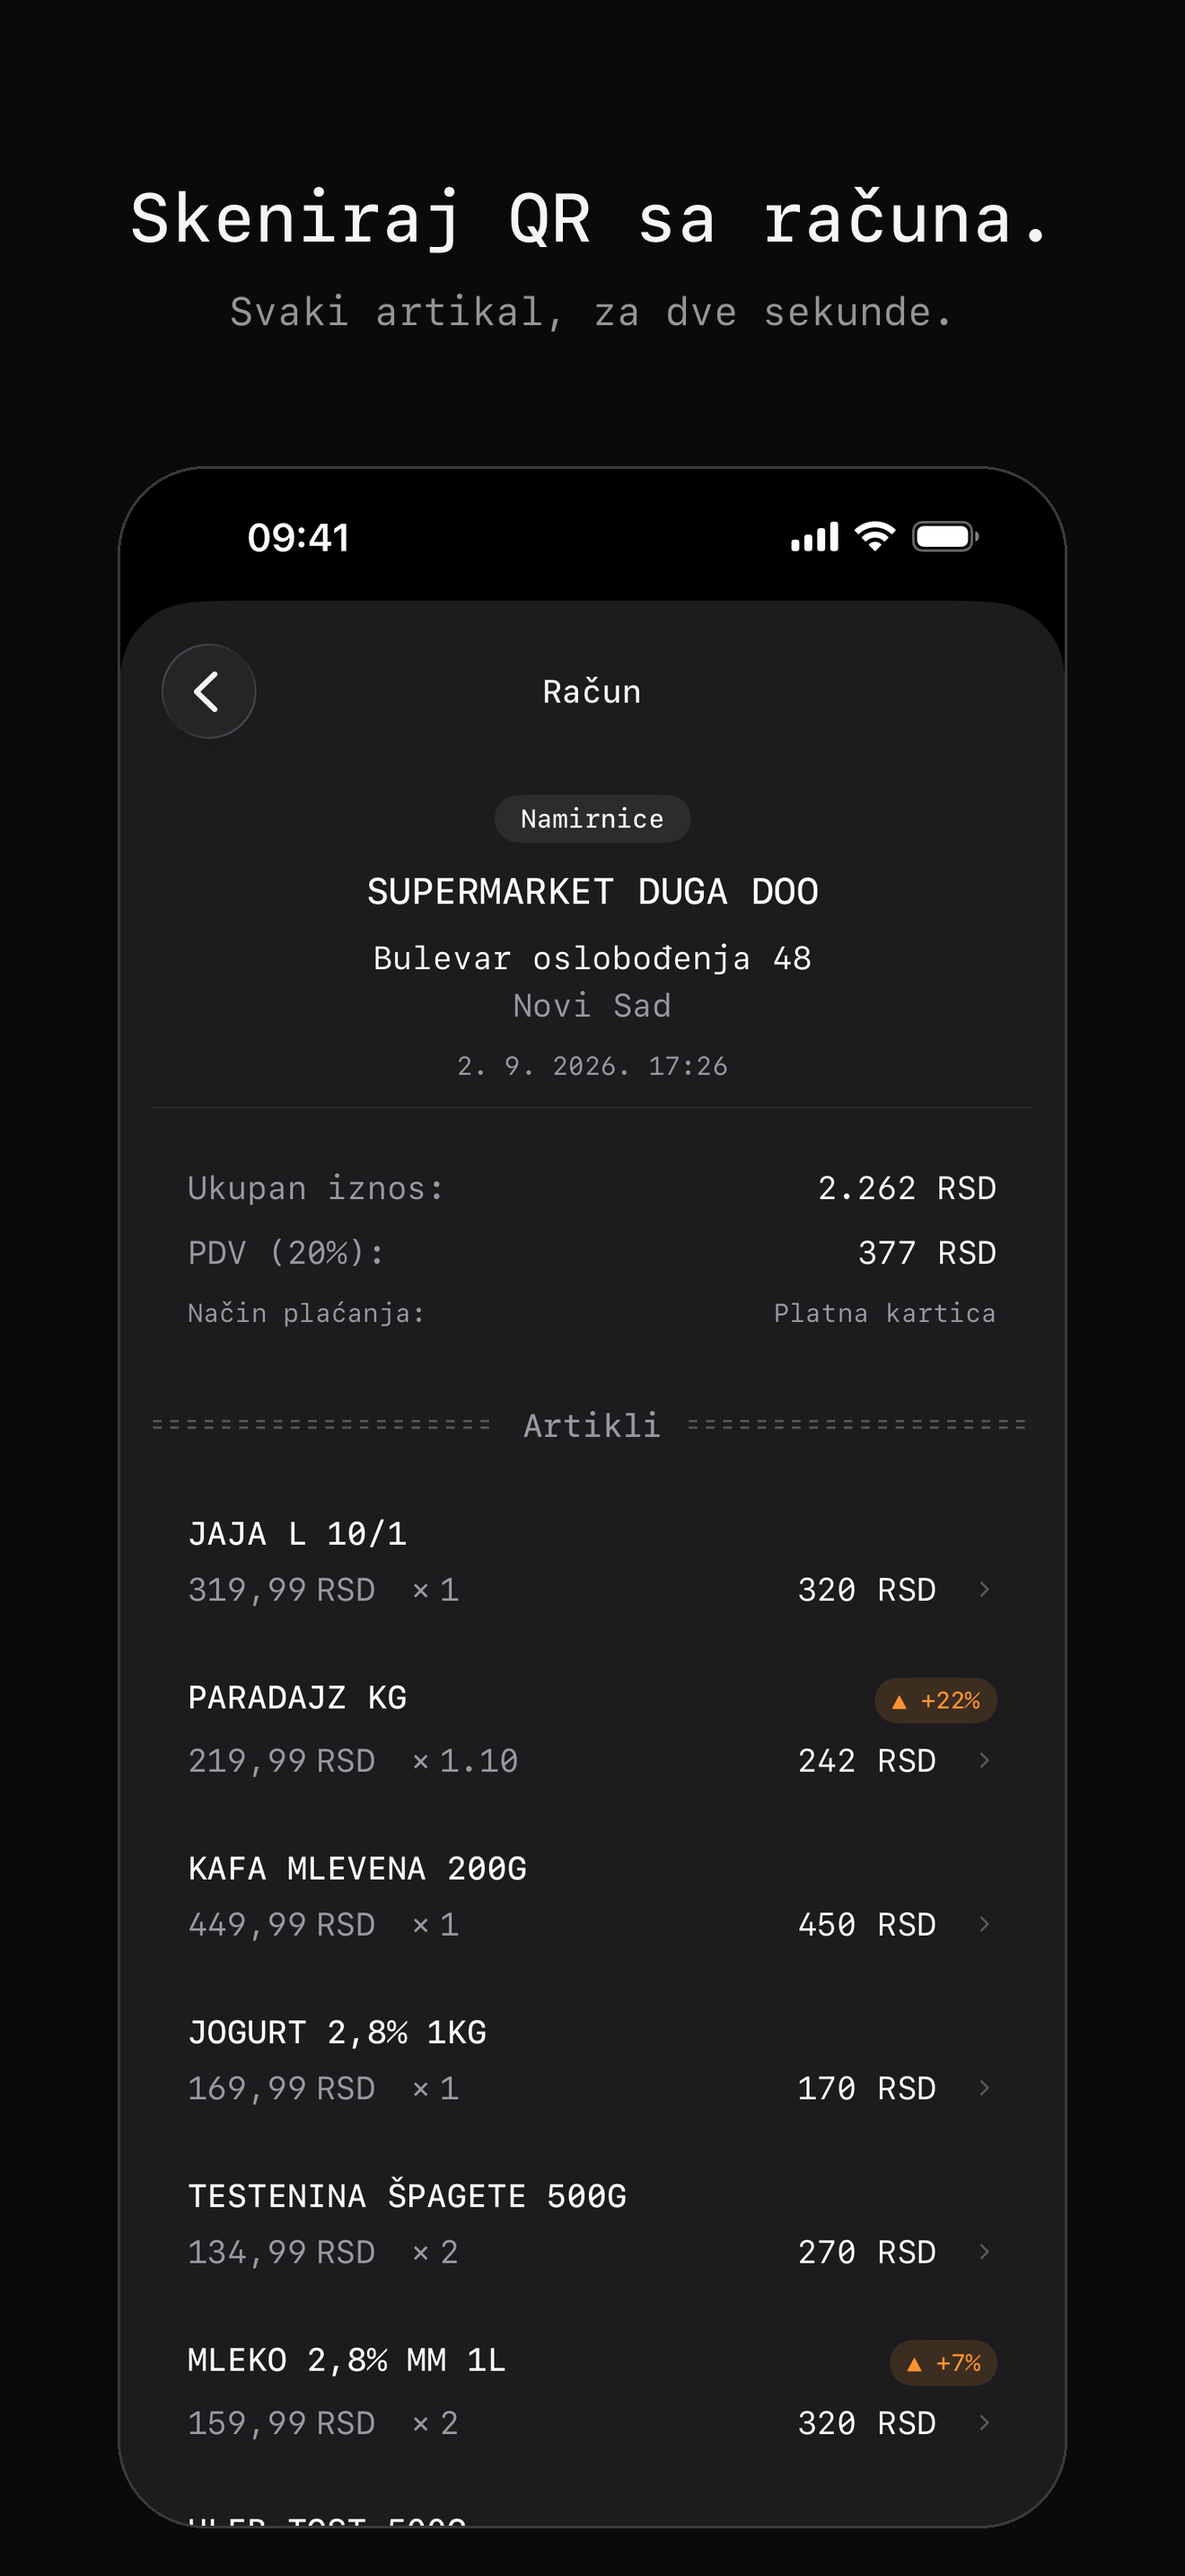
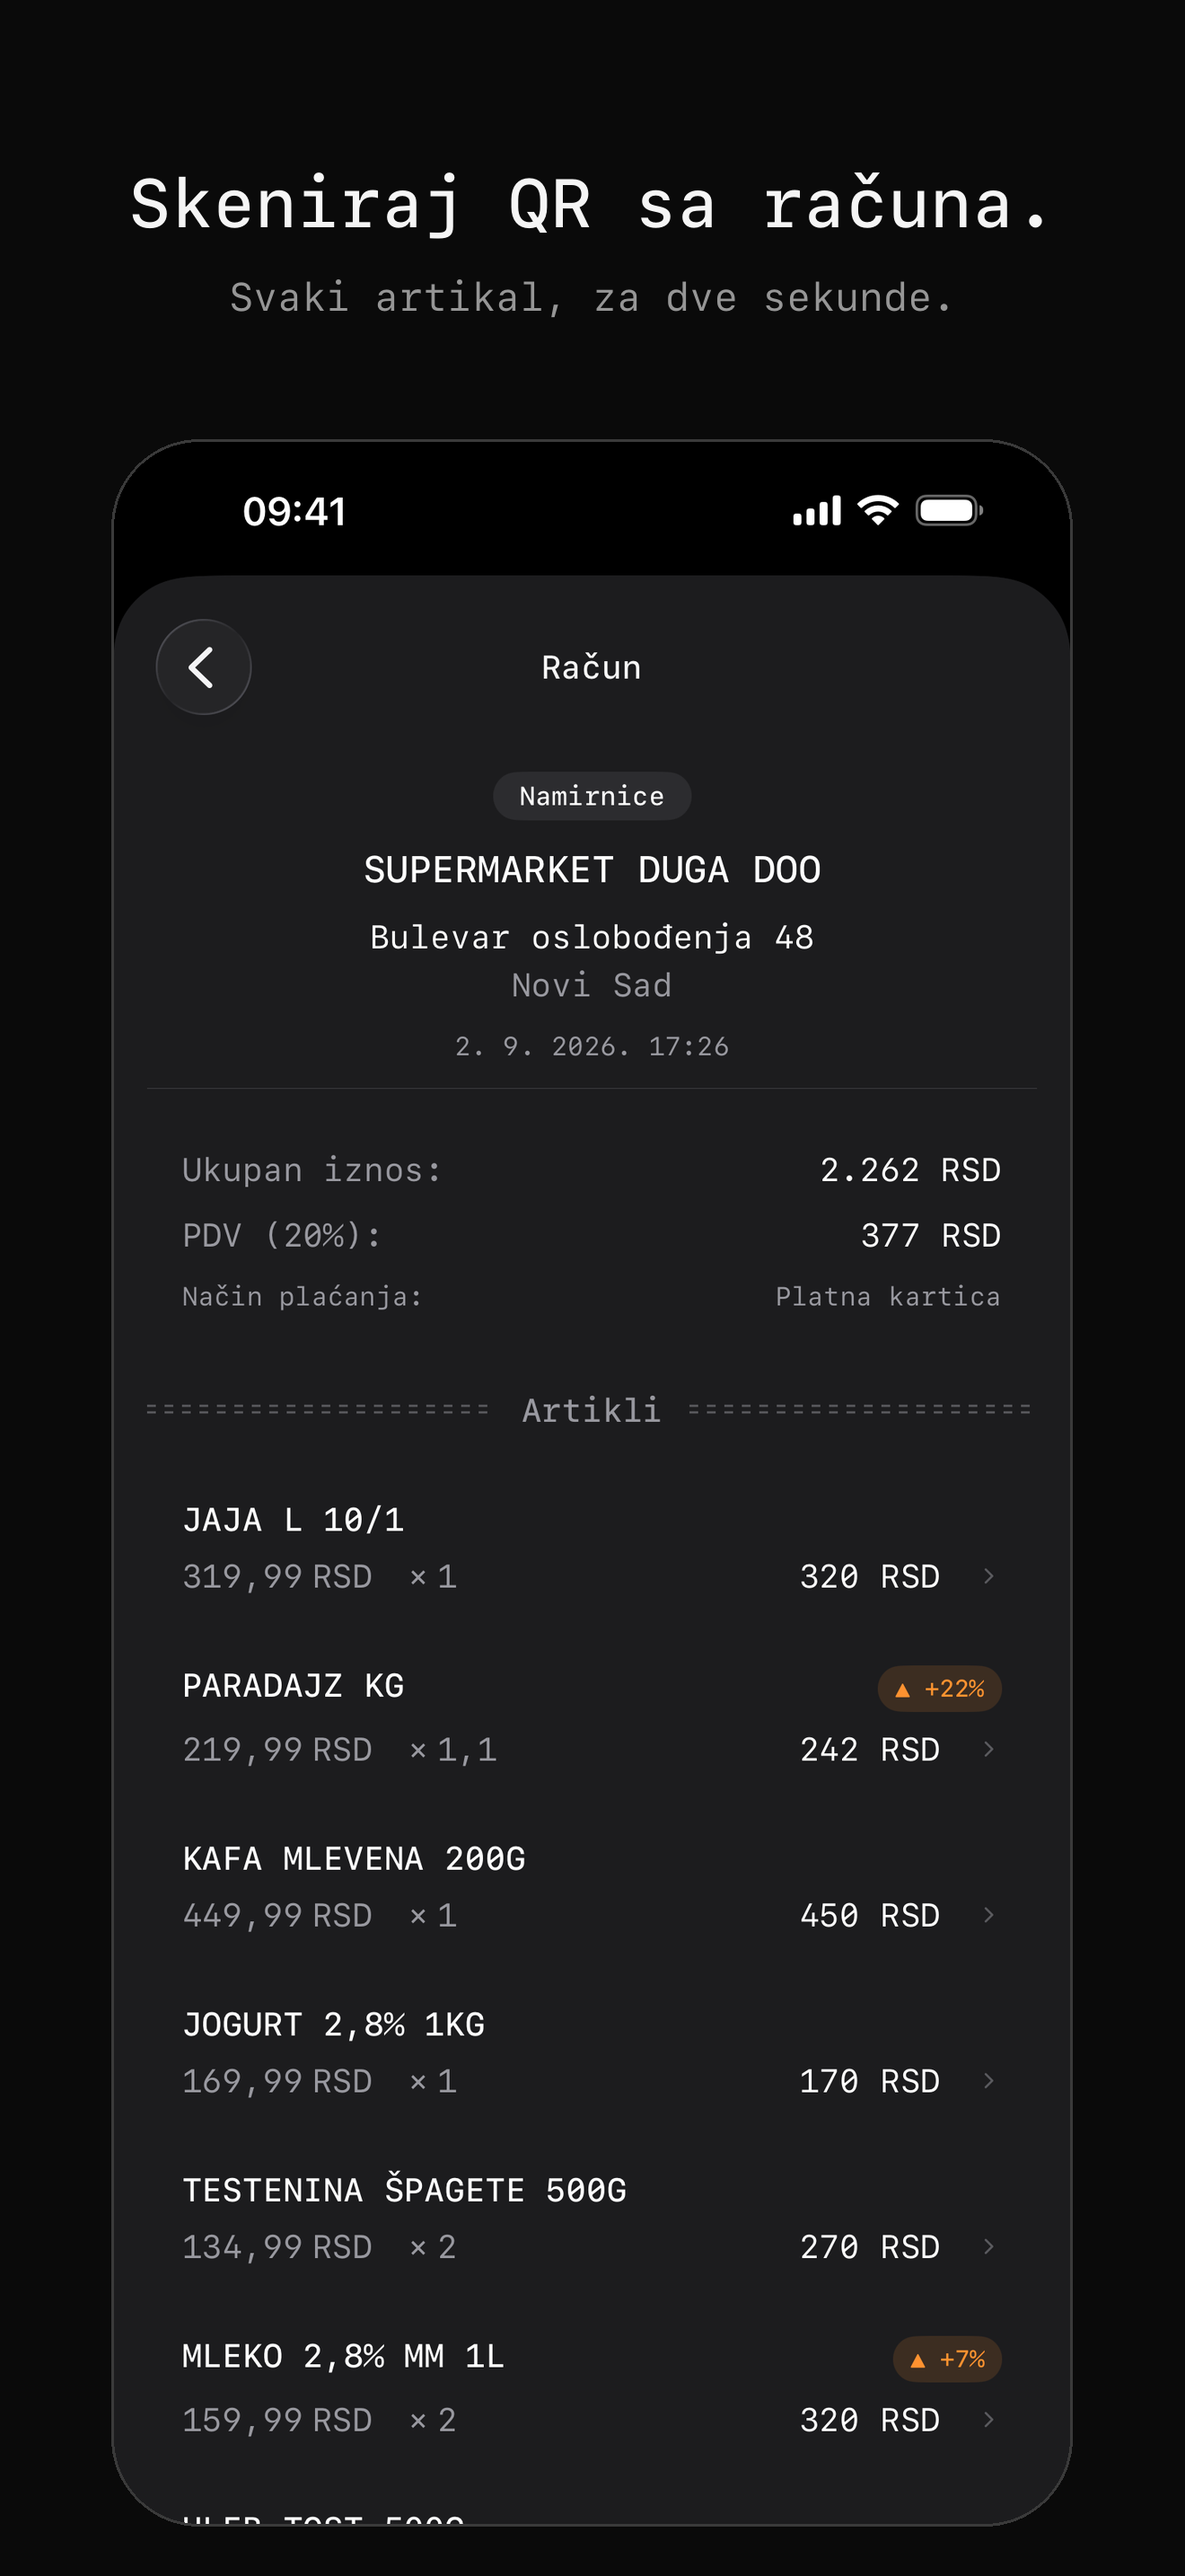
docs: screenshot računa sa „× 1,1“; skripta za naslove (frame.py)

diff --git a/AppStore/screenshots/frame.py b/AppStore/screenshots/frame.py
@@ -1,0 +1,38 @@
+"""Dodaje naslov iznad ekrana: raw/*.png → framed/ (6,9″) i framed-6.5/ (6,5″).
+Pokretanje: python3 frame.py  (iz ovog foldera; treba Pillow i SF Mono iz Terminal.app)."""
+from PIL import Image, ImageDraw, ImageFont
+import os
+
+FONTS = "/Applications/Utilities/Terminal.app/Contents/Resources/Fonts/"
+SHOTS = [  # raw fajl, naslov, podnaslov — redosled = redosled u App Store-u
+    ("01-pocetna", "Gde odoše pare?", "Ceo mesec na jednom ekranu."),
+    ("04-racun", "Skeniraj QR sa računa.", "Svaki artikal, za dve sekunde."),
+    ("05-istorija-cena", "Vidi šta je poskupelo.", "Istorija cene svakog artikla."),
+    ("03-kategorije", "Gde ide plata.", "Potrošnja po kategorijama."),
+    ("02-racuni", "Svi računi na okupu.", "Po danima, sa zbirom dana."),
+    ("06-lista-zelja", "Štedi za ono što želiš.", "Vidiš kad stižeš do cilja."),
+]
+SIZES = {"framed": (1320, 2868), "framed-6.5": (1284, 2778)}
+
+for folder, (W, H) in SIZES.items():
+    k = W / 1320
+    title_font = ImageFont.truetype(FONTS + "SF-Mono-Medium.otf", round(76 * k))
+    sub_font = ImageFont.truetype(FONTS + "SF-Mono-Regular.otf", round(44 * k))
+    os.makedirs(folder, exist_ok=True)
+    for i, (name, title, sub) in enumerate(SHOTS, 1):
+        canvas = Image.new("RGB", (W, H), (10, 10, 10))
+        d = ImageDraw.Draw(canvas)
+        top = round(180 * k)
+        d.text(((W - d.textlength(title, font=title_font)) / 2, top), title, font=title_font, fill=(245, 245, 245))
+        d.text(((W - d.textlength(sub, font=sub_font)) / 2, top + round(124 * k)), sub, font=sub_font, fill=(150, 150, 150))
+        y = round(490 * k)
+        sh = H - y - round(56 * k)
+        sw = round(sh * 1320 / 2868)
+        shot = Image.open(f"raw/{name}.png").convert("RGB").resize((sw, sh), Image.LANCZOS)
+        x = (W - sw) // 2
+        r = round(96 * sh / 2294)
+        mask = Image.new("L", (sw, sh), 0)
+        ImageDraw.Draw(mask).rounded_rectangle((0, 0, sw - 1, sh - 1), radius=r, fill=255)
+        canvas.paste(shot, (x, y), mask)
+        d.rounded_rectangle((x - 1, y - 1, x + sw, y + sh), radius=r + 1, outline=(58, 58, 58), width=3)
+        canvas.save(f"{folder}/{i:02d}-{name.split('-', 1)[1]}.png")
